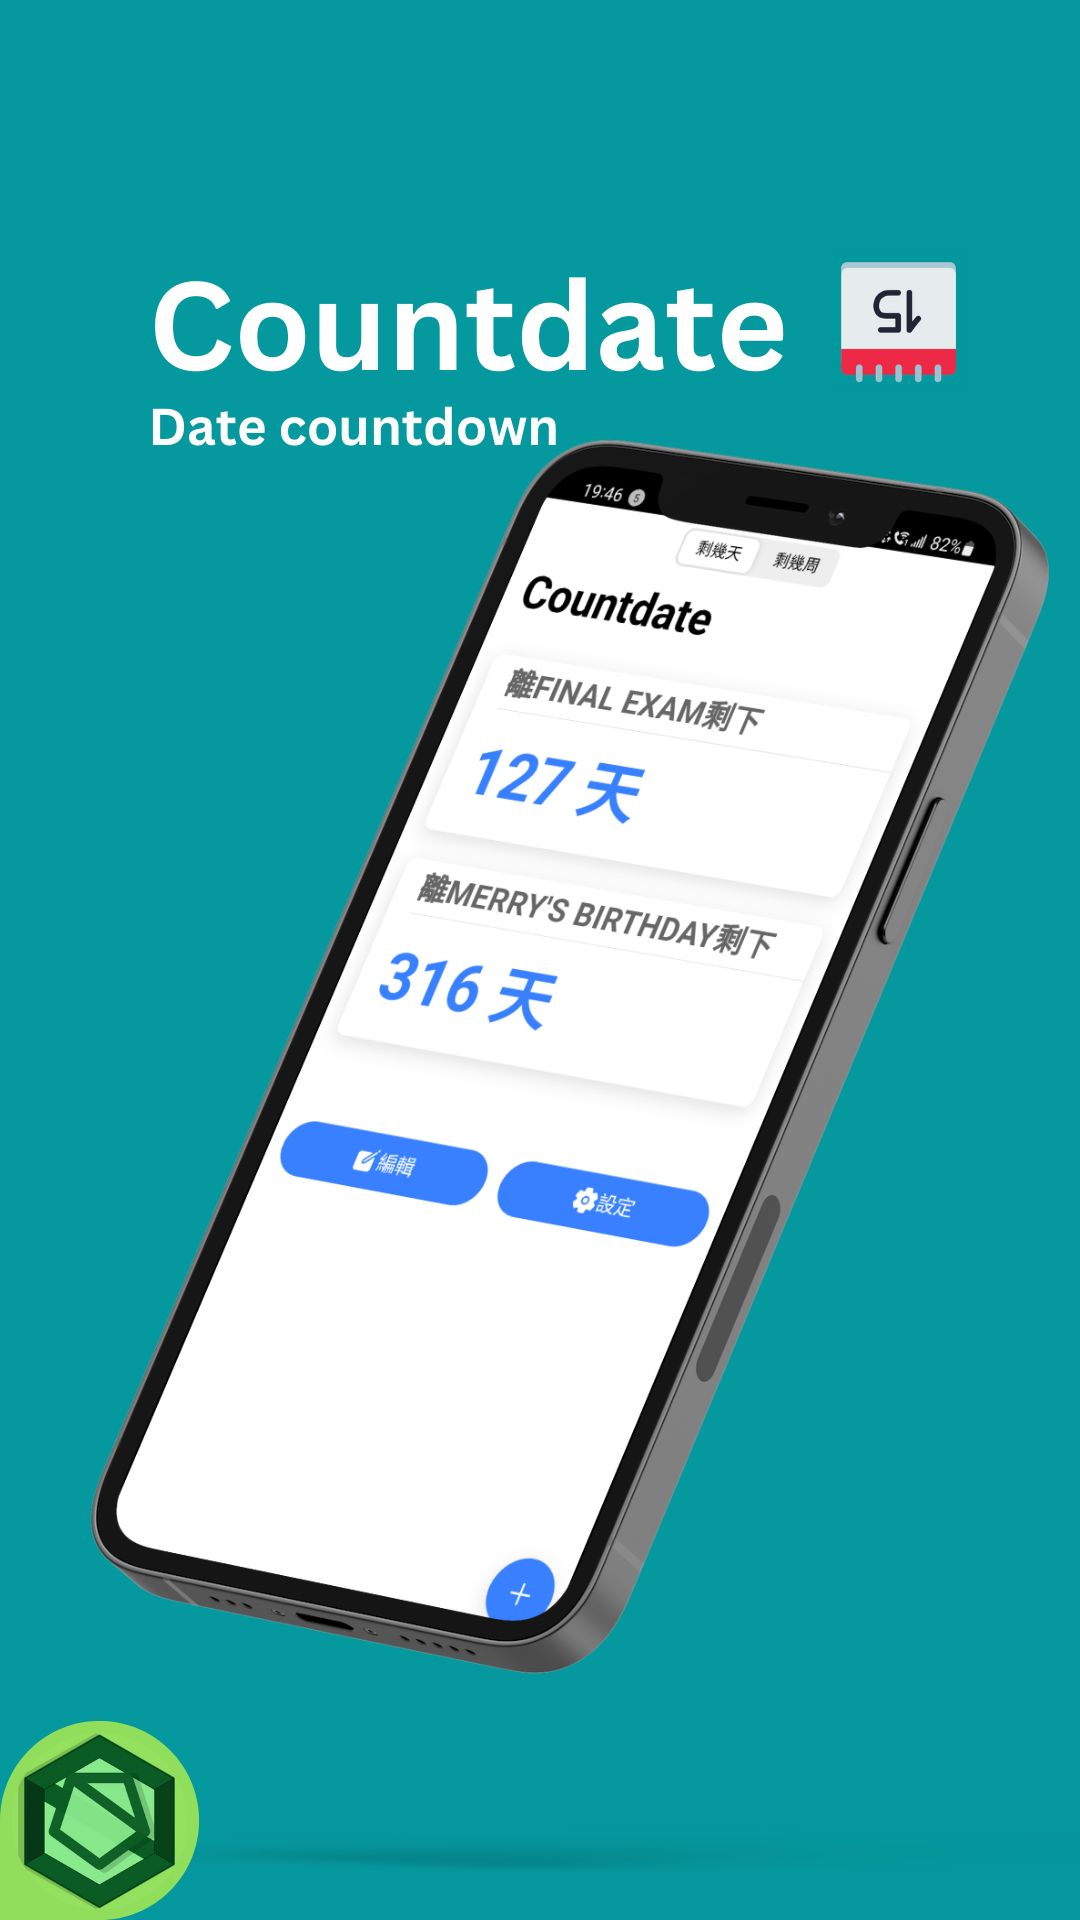
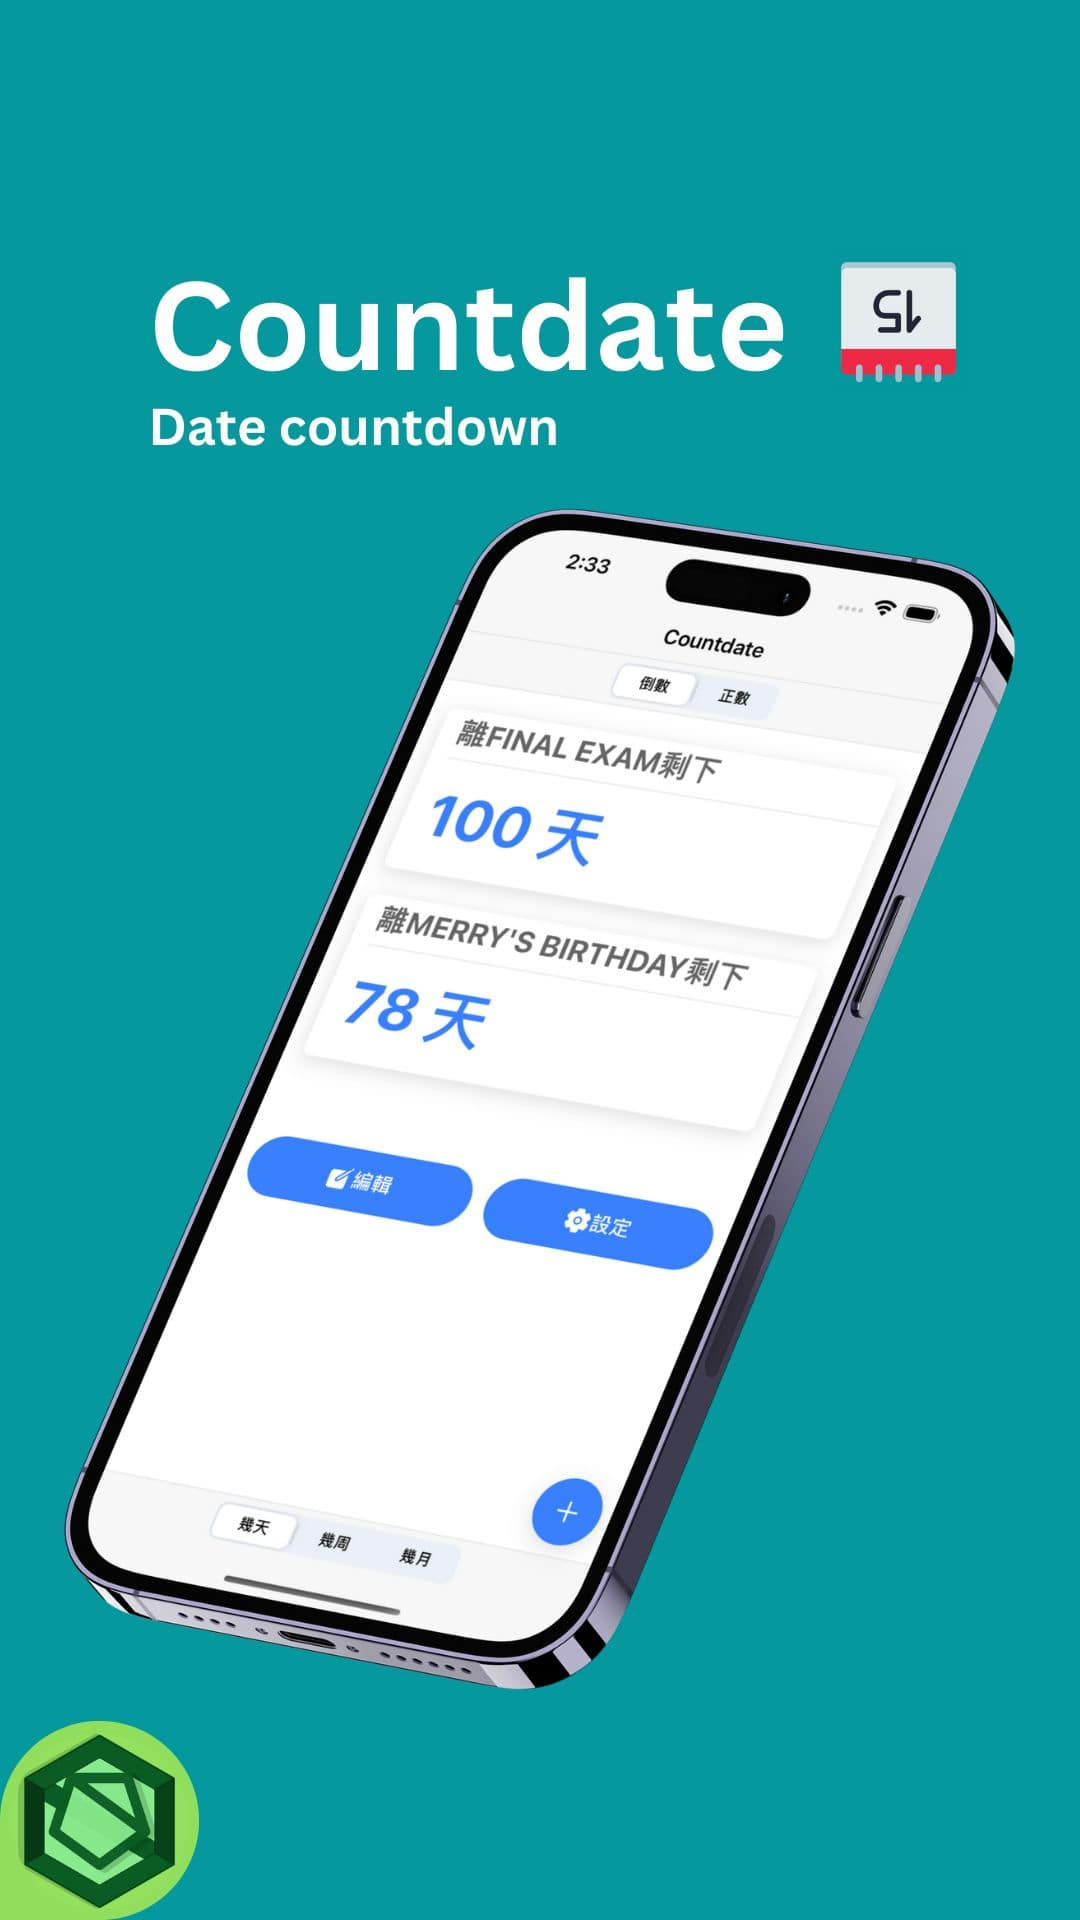
💄 Update README, Photos, Description

Changed region(s): [[0.0611, 0.2188, 0.9778, 0.9062]]

diff --git a/README.md b/README.md
@@ -30,7 +30,7 @@
     <img src="https://sk5s.cyou/countdate-landing/assets/img/icon-foreground.png" alt="Logo" width="80" height="80">
   </a>
 
-<h3 align="center">countdate app</h3>
+<h3 align="center">Countdate</h3>
 
   <p align="center">
     Date Countdown: Know How Many Days Left To a Specific Date.
@@ -83,12 +83,13 @@
 <!--[![Product Name Screen Shot]](https://sk5s.cyou/)-->
 
 <a target="_blank" href='https://play.google.com/store/apps/details?id=cyou.sk5s.app.countdate&pcampaignid=pcampaignidMKT-Other-global-all-co-prtnr-py-PartBadge-Mar2515-1'><img alt='Get it on Google Play' src='https://play.google.com/intl/en_us/badges/static/images/badges/en_badge_web_generic.png' width="150px"/></a>
-<a target="_blank" href='https://apt.izzysoft.de/fdroid/index/apk/cyou.sk5s.app.countdate'><img alt='Get it on Google Play' src='https://sk5s.cyou/countdate-landing/assets/img/IzzyOnDroid.png' width="150px"/></a>
+<a target="_blank" href='https://apt.izzysoft.de/fdroid/index/apk/cyou.sk5s.app.countdate'><img alt='Get it on IzzyOnDroid' src='https://sk5s.cyou/countdate-landing/assets/img/IzzyOnDroid.png' width="150px"/></a>
+<a target="_blank" href='https://apps.apple.com/US/app/id6553989325'><img alt='Download on the App Store' src='https://sk5s.cyou/sk5s/img/app_store_badge_en.png' width="150px"/></a>
 
 Date Countdown: Know How Many Days Left To a Specific Date.
 
-**Android**
-Ready to use android app.
+**Android、iOS**
+Ready to use native app.
 
 **Web**
 Web version of countdate app is also available.
@@ -99,7 +100,7 @@ As always, this app is free to download and use!
 **Open Source**
 Since this app is MIT licensed, you can modified it!
 
-> Countdate is an open source Android app that helps you keep track of important dates. With Countdate, you can enter a date and the app will tell you exactly how many days are left until that date. It's a great tool for counting down to special occasions, deadlines, or anything else you need to remember. Countdate is easy to use and can be customized to meet your needs, making it a great choice for anyone who wants to keep track of upcoming events.
+> Countdate is an open source app that helps you keep track of important dates. With Countdate, you can enter a date and the app will tell you exactly how many days are left until that date. It's a great tool for counting down to special occasions, deadlines, or anything else you need to remember. Countdate is easy to use and can be customized to meet your needs, making it a great choice for anyone who wants to keep track of upcoming events.
 
 |![](https://raw.githubusercontent.com/sk5s/countdateapp/main/fastlane/metadata/android/en-US/images/phoneScreenshots/1.jpg)|![](https://raw.githubusercontent.com/sk5s/countdateapp/main/fastlane/metadata/android/en-US/images/phoneScreenshots/2.jpg)|
 | ----------- | ----------- |
@@ -152,6 +153,7 @@ click add button to add a countdate
 - [x] Qrcode share event
 - [x] Native desktop widget
 - [x] Count Month
+- [ ] Extend day selection
 
 See the [open issues](https://github.com/sk5s/countdateapp/issues) for a full list of proposed features (and known issues).
 
